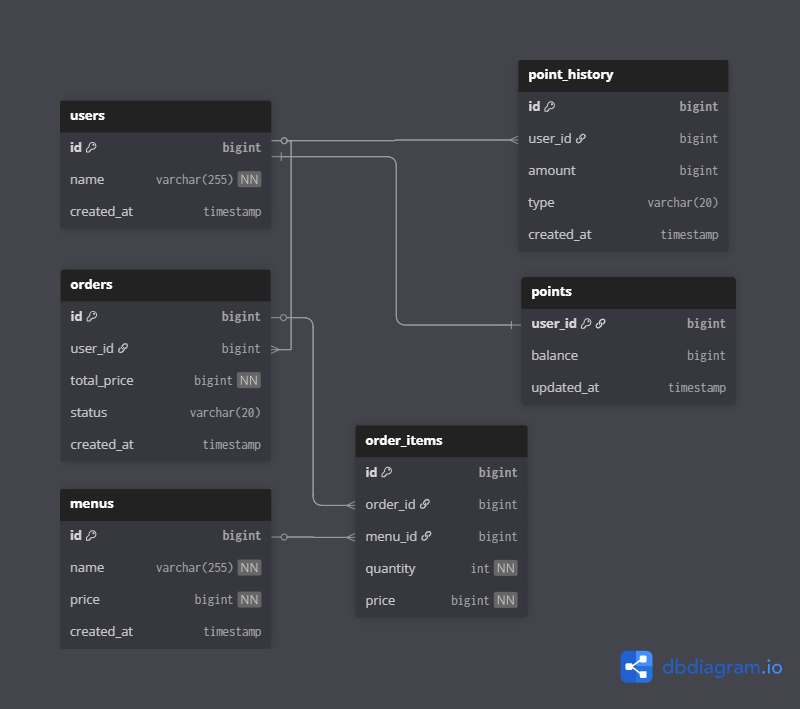
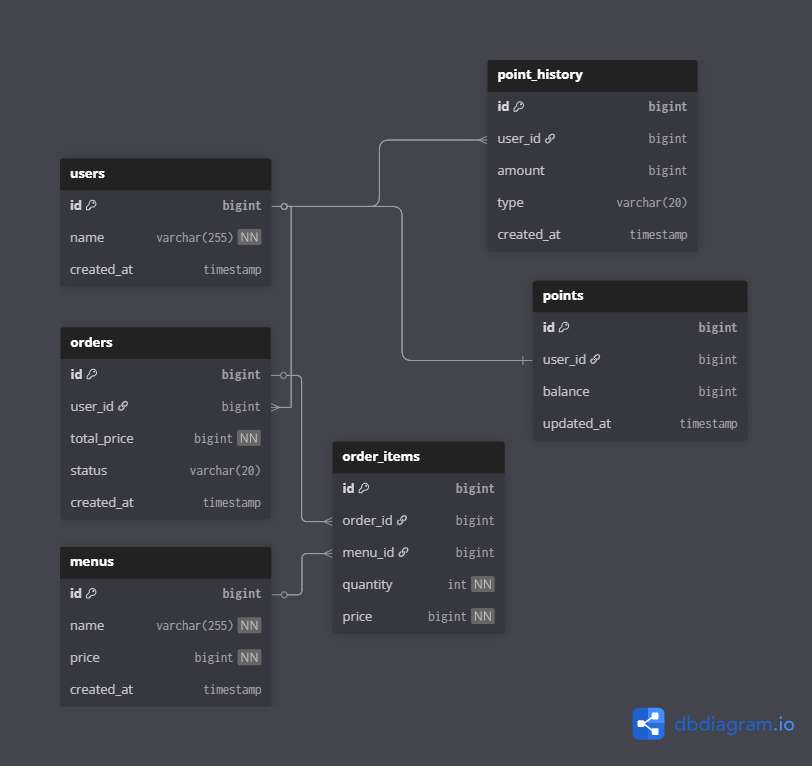
feat: 테스트코드 작성

diff --git a/src/test/java/kr/spartaclub/coffeeorderproject/domain/order/service/OrderServiceTest.java b/src/test/java/kr/spartaclub/coffeeorderproject/domain/order/service/OrderServiceTest.java
@@ -1,0 +1,108 @@
+package kr.spartaclub.coffeeorderproject.domain.order.service;
+
+import kr.spartaclub.coffeeorderproject.domain.menu.entity.Menu;
+import kr.spartaclub.coffeeorderproject.domain.menu.repository.MenuRepository;
+import kr.spartaclub.coffeeorderproject.domain.order.dto.OrderCompletedEvent;
+import kr.spartaclub.coffeeorderproject.domain.order.dto.OrderRequest;
+import kr.spartaclub.coffeeorderproject.domain.order.dto.OrderResponse;
+import kr.spartaclub.coffeeorderproject.domain.order.entity.User;
+import kr.spartaclub.coffeeorderproject.domain.order.producer.OrderProducer;
+import kr.spartaclub.coffeeorderproject.domain.order.repository.UserRepository;
+import kr.spartaclub.coffeeorderproject.domain.point.entity.Point;
+import kr.spartaclub.coffeeorderproject.domain.point.repository.PointRepository;
+import org.junit.jupiter.api.BeforeEach;
+import org.junit.jupiter.api.DisplayName;
+import org.junit.jupiter.api.Test;
+import org.springframework.beans.factory.annotation.Autowired;
+import org.springframework.boot.test.context.SpringBootTest;
+import org.springframework.boot.test.mock.mockito.SpyBean;
+
+import java.util.concurrent.CountDownLatch;
+import java.util.concurrent.ExecutorService;
+import java.util.concurrent.Executors;
+import java.util.concurrent.atomic.AtomicInteger;
+
+import static org.assertj.core.api.Assertions.assertThat;
+import static org.mockito.ArgumentMatchers.any;
+import static org.mockito.BDDMockito.then;
+import static org.mockito.Mockito.times;
+
+@SpringBootTest
+class OrderServiceTest {
+
+    @Autowired private OrderService orderService;
+    @Autowired private UserRepository userRepository;
+    @Autowired private MenuRepository menuRepository;
+    @Autowired private PointRepository pointRepository;
+
+    @SpyBean
+    private OrderProducer orderProducer; // Kafka 전송 여부 확인용
+
+    private User savedUser;
+    private Menu savedMenu;
+
+    @BeforeEach
+    void setUp() {
+        savedUser = userRepository.save(User.builder().name("주문자").build());
+        savedMenu = menuRepository.save(Menu.builder().name("아메리카노").price(4500L).build());
+
+        // 초기 포인트 충전 (10,000원)
+        pointRepository.save(Point.builder().user(savedUser).balance(10000L).build());
+    }
+
+    @Test
+    @DisplayName("정상적인 주문 요청 시, 포인트가 차감되고 주문 내역이 저장되며 Kafka로 전송된다.")
+    void createOrder_Success_Test() {
+        // Given
+        OrderRequest request = new OrderRequest(savedUser.getId(), savedMenu.getId(), 1);
+
+        // When
+        OrderResponse response = orderService.createOrder(request);
+
+        // Then
+        // 1. 응답값 검증
+        assertThat(response.orderId()).isNotNull();
+        assertThat(response.totalPrice()).isEqualTo(4500L);
+
+        // 2. 포인트 차감 검증 (10,000 - 4,500 = 5,500)
+        Point point = pointRepository.findByUserId(savedUser.getId()).get();
+        assertThat(point.getBalance()).isEqualTo(5500L);
+
+        // 3. Kafka 전송 검증 (BDDMockito 사용)
+        then(orderProducer).should(times(1)).send(any(OrderCompletedEvent.class));
+    }
+
+    @Test
+    @DisplayName("동일 사용자가 동시에 주문을 2번 요청하면, 분산 락에 의해 하나만 성공해야 한다.")
+    void createOrder_Concurrency_Lock_Test() throws InterruptedException {
+        // Given
+        OrderRequest request = new OrderRequest(savedUser.getId(), savedMenu.getId(), 1);
+        int threadCount = 2;
+        ExecutorService executorService = Executors.newFixedThreadPool(threadCount);
+        CountDownLatch latch = new CountDownLatch(threadCount);
+
+        AtomicInteger successCount = new AtomicInteger();
+        AtomicInteger failCount = new AtomicInteger();
+
+        // When
+        for (int i = 0; i < threadCount; i++) {
+            executorService.submit(() -> {
+                try {
+                    orderService.createOrder(request);
+                    successCount.incrementAndGet();
+                } catch (Exception e) {
+                    failCount.incrementAndGet();
+                    System.out.println("주문 실패 사유: " + e.getMessage());
+                } finally {
+                    latch.countDown();
+                }
+            });
+        }
+        latch.await();
+
+        // Then
+        // 한 번의 주문만 성공하고, 나머지는 락 획득 실패 혹은 잔액 부족 등으로 실패해야 함
+        assertThat(successCount.get()).isEqualTo(1);
+        assertThat(failCount.get()).isEqualTo(1);
+    }
+}

diff --git a/src/test/java/kr/spartaclub/coffeeorderproject/domain/point/service/PointServiceTest.java b/src/test/java/kr/spartaclub/coffeeorderproject/domain/point/service/PointServiceTest.java
@@ -1,0 +1,66 @@
+package kr.spartaclub.coffeeorderproject.domain.point.service;
+
+import kr.spartaclub.coffeeorderproject.domain.order.entity.User;
+import kr.spartaclub.coffeeorderproject.domain.order.repository.UserRepository;
+import kr.spartaclub.coffeeorderproject.domain.point.dto.PointRequest;
+import kr.spartaclub.coffeeorderproject.domain.point.entity.Point;
+import kr.spartaclub.coffeeorderproject.domain.point.repository.PointRepository;
+import org.junit.jupiter.api.BeforeEach;
+import org.junit.jupiter.api.DisplayName;
+import org.junit.jupiter.api.Test;
+import org.springframework.beans.factory.annotation.Autowired;
+import org.springframework.boot.test.context.SpringBootTest;
+
+import java.util.concurrent.CountDownLatch;
+import java.util.concurrent.ExecutorService;
+import java.util.concurrent.Executors;
+
+import static org.assertj.core.api.Assertions.assertThat;
+
+@SpringBootTest
+class PointServiceTest {
+
+    @Autowired private PointService pointService;
+    @Autowired private PointRepository pointRepository;
+    @Autowired private UserRepository userRepository;
+
+    private User savedUser;
+
+    @BeforeEach
+    void setUp() {
+        savedUser = userRepository.save(new User("유저1"));
+
+        Point point = Point.builder()
+                .user(savedUser)
+                .balance(0L)
+                .build();
+        pointRepository.save(point);
+    }
+
+    @Test
+    @DisplayName("동시에 10개 스레드에서 각 1,000원씩 충전하면, 최종 잔액은 10,000원이어야 한다.")
+    void chargePoint_Concurrency_Test() throws InterruptedException {
+        // Given
+        int threadCount = 10;
+        ExecutorService executorService = Executors.newFixedThreadPool(threadCount);
+        CountDownLatch latch = new CountDownLatch(threadCount);
+        PointRequest request = new PointRequest(savedUser.getId(), 1000L);
+
+        // When
+        for (int i = 0; i < threadCount; i++) {
+            executorService.submit(() -> {
+                try {
+                    pointService.chargePoint(request);
+                } finally {
+                    latch.countDown();
+                }
+            });
+        }
+        latch.await();
+        executorService.shutdown();
+
+        // Then
+        Point resultPoint = pointRepository.findByUserId(savedUser.getId()).orElseThrow();
+        assertThat(resultPoint.getBalance()).isEqualTo(10000L);
+    }
+}

diff --git a/src/main/java/kr/spartaclub/coffeeorderproject/domain/menu/entity/Menu.java b/src/main/java/kr/spartaclub/coffeeorderproject/domain/menu/entity/Menu.java
@@ -2,6 +2,7 @@ package kr.spartaclub.coffeeorderproject.domain.menu.entity;
 
 import jakarta.persistence.*;
 import lombok.AccessLevel;
+import lombok.Builder;
 import lombok.Getter;
 import lombok.NoArgsConstructor;
 
@@ -25,4 +26,10 @@ public class Menu {
 
     private LocalDateTime createdAt;
 
+    @Builder
+    public Menu(String name, Long price) {
+        this.name = name;
+        this.price = price;
+        this.createdAt = LocalDateTime.now();
+    }
 }

diff --git a/src/main/java/kr/spartaclub/coffeeorderproject/domain/order/entity/User.java b/src/main/java/kr/spartaclub/coffeeorderproject/domain/order/entity/User.java
@@ -2,6 +2,7 @@ package kr.spartaclub.coffeeorderproject.domain.order.entity;
 
 import jakarta.persistence.*;
 import lombok.AccessLevel;
+import lombok.Builder;
 import lombok.Getter;
 import lombok.NoArgsConstructor;
 
@@ -21,4 +22,10 @@ public class User {
     private String name;
 
     private LocalDateTime createdAt;
+
+    @Builder
+    public User(String name) {
+        this.name = name;
+        this.createdAt = LocalDateTime.now();
+    }
 }

diff --git a/src/main/java/kr/spartaclub/coffeeorderproject/domain/order/service/OrderService.java b/src/main/java/kr/spartaclub/coffeeorderproject/domain/order/service/OrderService.java
@@ -52,8 +52,8 @@ public class OrderService {
         RLock lock = redissonClient.getLock(lockKey);
 
         try {
-            // 5초 대기, 2초간 락 점유
-            if (!lock.tryLock(5, 2, TimeUnit.SECONDS)) {
+            // 0초 대기, 5초간 락 점유
+            if (!lock.tryLock(0, 5, TimeUnit.SECONDS)) {
                 throw new IllegalArgumentException("락 획득 못함");
             }
 

diff --git a/src/main/java/kr/spartaclub/coffeeorderproject/domain/point/entity/Point.java b/src/main/java/kr/spartaclub/coffeeorderproject/domain/point/entity/Point.java
@@ -16,9 +16,9 @@ import java.time.LocalDateTime;
 public class Point {
 
     @Id
+    @GeneratedValue(strategy = GenerationType.IDENTITY)
     private Long id;
 
-    @MapsId
     @OneToOne(fetch = FetchType.LAZY)
     @JoinColumn(name = "user_id")
     private User user;

diff --git a/src/main/java/kr/spartaclub/coffeeorderproject/domain/point/repository/PointRepository.java b/src/main/java/kr/spartaclub/coffeeorderproject/domain/point/repository/PointRepository.java
@@ -14,4 +14,6 @@ public interface PointRepository extends JpaRepository<Point, Long> {
     @Lock(LockModeType.PESSIMISTIC_WRITE)
     @Query("select p from Point p where p.user.id = :userId")
     Optional<Point> findByUserIdWithLock(@Param("userId") Long userId);
+
+    Optional<Point> findByUserId(Long userId);
 }

diff --git a/src/main/java/kr/spartaclub/coffeeorderproject/domain/point/dto/PointResponse.java b/src/main/java/kr/spartaclub/coffeeorderproject/domain/point/dto/PointResponse.java
@@ -1,6 +1,5 @@
 package kr.spartaclub.coffeeorderproject.domain.point.dto;
 
-
 import kr.spartaclub.coffeeorderproject.domain.point.entity.Point;
 
 public record PointResponse (